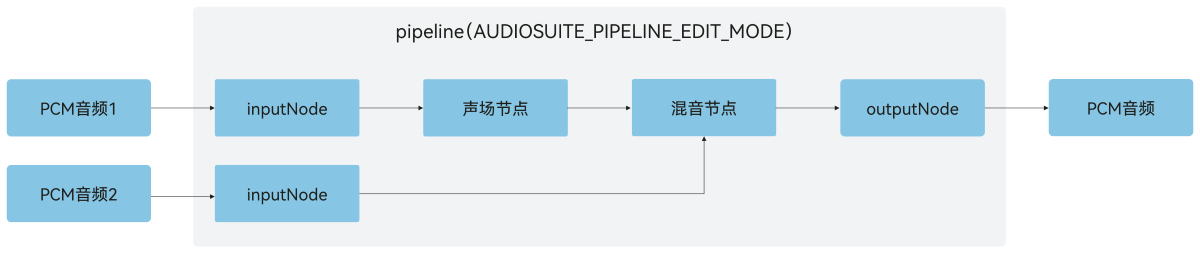
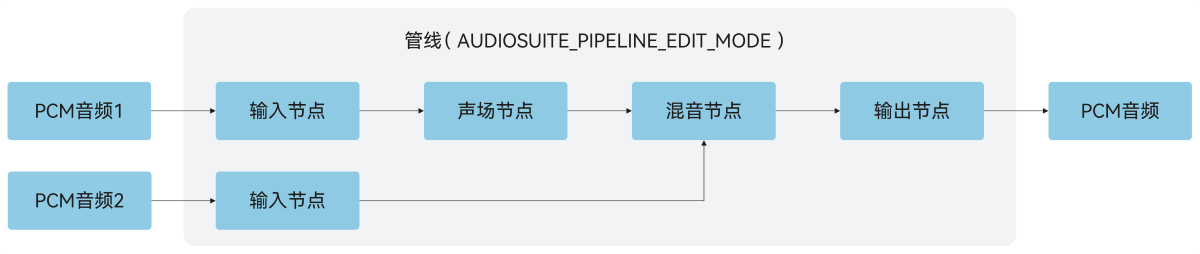
upate audiosuite API 22 docs

diff --git a/zh-cn/application-dev/media/audio/audio-suite.md b/zh-cn/application-dev/media/audio/audio-suite.md
@@ -16,23 +16,23 @@
 
 ## 引擎
 
-- [OHAudioSuite](../../reference/apis-audio-kit/capi-ohaudiosuite.md)中的引擎是一个统一管理音频管线、控制[离线编辑(C/C++)](audio-suite-manual-rendering.md)和[实时渲染(C/C++)](audio-suite-real-time-rendering.md)的对象，开发者可以根据自身的需求搭建音频处理链。调用方式如上图所示，由应用发起，先调用[OHAudioSuite](../../reference/apis-audio-kit/capi-ohaudiosuite.md)的接口依次创建引擎、管线、节点，再把创建的节点在管线内连接起来，用于传输PCM（Pulse Code Modulation）音频数据，使对应的效果节点实现音效处理能力。当管线停止时，开发者可以有限制地（具体规则请参考[管线的组成和编排](#管线的组成和编排)）连接、断开和移除节点，通过调节节点编排实现复杂的音效处理。
+[OHAudioSuite](../../reference/apis-audio-kit/capi-ohaudiosuite.md)中的引擎是一个统一管理音频管线、控制[离线编辑(C/C++)](audio-suite-manual-rendering.md)和[实时渲染(C/C++)](audio-suite-real-time-rendering.md)的对象，开发者可以根据自身的需求搭建音频处理链。调用方式如上图所示，由应用发起，先调用[OHAudioSuite](../../reference/apis-audio-kit/capi-ohaudiosuite.md)的接口依次创建引擎、管线、节点，再把创建的节点在管线内连接起来，用于传输PCM（Pulse Code Modulation）音频数据，使对应的效果节点实现音效处理能力。当管线停止时，开发者可以有限制地（具体规则请参考[管线的组成和编排](#管线的组成和编排)）连接、断开和移除节点，通过调节节点编排实现复杂的音效处理。
 
-- 引擎最多支持创建10条管线，其中实时渲染管线最多创建1条。
+引擎最多支持创建10条管线，其中实时渲染管线最多创建1条。
 
 ## 节点
 
 ### 节点的介绍
 
-- 节点是音频渲染的最小单元，根据节点功能提供对应的音效处理能力，节点本身无法单独调用，必须依附管线和引擎才能使用。
+节点是音频渲染的最小单元，根据节点功能提供对应的音效处理能力，节点本身无法单独调用，必须依附管线和引擎才能使用。
 
-- [OHAudioSuite](../../reference/apis-audio-kit/capi-ohaudiosuite.md)支持三种节点类型，分别是输入节点、输出节点、效果节点。
+[OHAudioSuite](../../reference/apis-audio-kit/capi-ohaudiosuite.md)支持三种节点类型，分别是输入节点、输出节点、效果节点。
 
-  |节点类型   | 说明    |
-  |----------|----------|
-  | INPUT_NODE  | 输入节点，支持开发者输入各种格式的PCM音频数据。  |
-  | EFFECT_NODE | 效果节点，添加音频效果，支持单输入单输出和多输入单输出。 |
-  | OUTPUT_NODE | 输出节点，支持设置输出的PCM音频格式。  |
+|节点类型   | 说明    |
+|----------|----------|
+| INPUT_NODE  | 输入节点，支持开发者输入各种格式的PCM音频数据。  |
+| EFFECT_NODE | 效果节点，添加音频效果，支持单输入单输出和多输入单输出。 |
+| OUTPUT_NODE | 输出节点，支持设置输出的PCM音频格式。  |
 
   节点完整类型详见[OH_AudioNode_Type](../../reference/apis-audio-kit/capi-native-audio-suite-base-h.md#oh_audionode_type)。
 
@@ -51,43 +51,9 @@
 
 ## 管线
 
-### 管线的作用
+管线是一个统一管理音频节点连接、配置的对象，支持两种工作模式，分别是[离线编辑(C/C++)](audio-suite-manual-rendering.md)和[实时渲染(C/C++)](audio-suite-real-time-rendering.md)。
 
-- 管线是[OHAudioSuite](../../reference/apis-audio-kit/capi-ohaudiosuite.md)中支持应用渲染PCM音频数据的音效链路。管线支持节点之间的灵活组网，给开发者提供更丰富、更灵活的音频编创体验。
-
-- 管线使用的场景如下：
-
-
-  创建一个输入节点、一个效果节点（如均衡器节点[EFFECT_NODE_TYPE_EQUALIZER](../../reference/apis-audio-kit/capi-native-audio-suite-base-h.md#oh_audionode_type)）和一个输出节点，按节点连接顺序（输入节点 -> 效果节点 -> 输出节点）连接组成管线，实现均衡器功能（具体代码用例参考[基础离线编辑](audio-suite-manual-rendering.md#基础离线编辑)）。同时，管线也支持多输入场景（具体代码用例参考[混音与级联](audio-suite-manual-rendering.md#混音与级联)），每条管线输入的PCM数据经过各自的效果节点，在进行混音处理后进行输出。
-
-### 管线的组成和编排
-
-管线由节点编排组成。每一个管线中，输入节点[INPUT_NODE_TYPE_DEFAULT](../../reference/apis-audio-kit/capi-native-audio-suite-base-h.md#oh_audionode_type)不超过5个，输出节点[OUTPUT_NODE_TYPE_DEFAULT](../../reference/apis-audio-kit/capi-native-audio-suite-base-h.md#oh_audionode_type)不超过1个，混音节点[EFFECT_NODE_TYPE_AUDIO_MIXER](../../reference/apis-audio-kit/capi-native-audio-suite-base-h.md#oh_audionode_type)不超过3个，音源分离节点[EFFECT_MULTII_OUTPUT_NODE_TYPE_AUDIO_SEPARATION](../../reference/apis-audio-kit/capi-native-audio-suite-base-h.md#oh_audionode_type)不超过1个，其余效果类节点不超过5个。
-
-- 管线创建的节点数量超过该类型的限制后，再创建该类型节点会失败。
-
-- 每条管线至少要有1个输入节点，有且只有1个输出节点。
-
-- 创建节点前需要调用[OH_AudioSuiteEngine_IsNodeTypeSupported()](../../reference/apis-audio-kit/capi-native-audio-suite-engine-h.md#oh_audiosuiteengine_isnodetypesupported)检查节点类型是否受支持，避免创建节点失败。
-  
-- 输入节点和输出节点支持设置节点格式，其余节点不支持设置格式。输入的格式是音频源的音频格式，输出的格式是开发者期望输出的音频格式。
-
-管线中节点的连接规则如下表所示。
-
-|前置节点类型\后置节点类型   | INPUT_NODE_TYPE_DEFAULT（输入节点） | EFFECT_NODE（效果类节点的统称） | OUTPUT_NODE_TYPE_DEFAULT（输出节点） |
-|----------|----------|----------|----------|
-| INPUT_NODE_TYPE_DEFAULT（输入节点）  | N  | Y  |    Y   |
-| EFFECT_NODE（效果类节点的统称） | N  | Y  |  Y  |
-| OUTPUT_NODE_TYPE_DEFAULT（输出节点） | N  | N  |  N  |
-
-- 音源分离效果节点[EFFECT_MULTII_OUTPUT_NODE_TYPE_AUDIO_SEPARATION](../../reference/apis-audio-kit/capi-native-audio-suite-base-h.md#oh_audionode_type)后面只能连接输出节点，其余效果类节点则没有这个限制。
-
-- 混音效果节点[EFFECT_NODE_TYPE_AUDIO_MIXER](../../reference/apis-audio-kit/capi-native-audio-suite-base-h.md#oh_audionode_type)支持多路输入连接，其余类型节点则不支持。
-
-- 节点的连接是单向的，不支持后序节点反向连接到前序节点。输入节点是每条管线的首节点，输出节点是每条管线的尾节点。
-
-
-### 管线的状态变化与工作模式
+管线的数据处理采用反向驱动机制。由[OH_AudioSuiteEngine_RenderFrame()](../../reference/apis-audio-kit/capi-native-audio-suite-engine-h.md#oh_audiosuiteengine_renderframe)或者[OH_AudioSuiteEngine_MultiRenderFrame()](../../reference/apis-audio-kit/capi-native-audio-suite-engine-h.md#oh_audiosuiteengine_multirenderframe)发起，输出节点逐级向连接的上游节点请求数据，最终由输入节点的[OH_InputNode_RequestDataCallback()](../../reference/apis-audio-kit/capi-native-audio-suite-engine-h.md#oh_inputnode_requestdatacallback)回调函数向开发者请求需要处理的音频数据。
 
 **图2**：管线运行状态图
 
@@ -100,7 +66,30 @@
 | stopped  | 初始状态，或者工作状态经过[OH_AudioSuiteEngine_StopPipeline()](../../reference/apis-audio-kit/capi-native-audio-suite-engine-h.md#oh_audiosuiteengine_stoppipeline)命令进入该状态。<br>切换到stopped状态下，各节点将释放缓存。  |
 | running  | 工作状态，或者初始状态执行[OH_AudioSuiteEngine_StartPipeline()](../../reference/apis-audio-kit/capi-native-audio-suite-engine-h.md#oh_audiosuiteengine_startpipeline)命令进入该状态。<br>该函数会对管线进行完整性检查，包含是否有有效连接、节点是否连接错误等。 |
 
-管线是一个统一管理音频节点连接、配置的对象，支持两种工作模式，分别是[离线编辑(C/C++)](audio-suite-manual-rendering.md)和[实时渲染(C/C++)](audio-suite-real-time-rendering.md)。
+### 管线的作用
 
-管线的数据处理采用反向驱动机制。由[OH_AudioSuiteEngine_RenderFrame()](../../reference/apis-audio-kit/capi-native-audio-suite-engine-h.md#oh_audiosuiteengine_renderframe)或者[OH_AudioSuiteEngine_MultiRenderFrame()](../../reference/apis-audio-kit/capi-native-audio-suite-engine-h.md#oh_audiosuiteengine_multirenderframe)发起，输出节点逐级向连接的上游节点请求数据，最终由输入节点的[OH_InputNode_RequestDataCallback()](../../reference/apis-audio-kit/capi-native-audio-suite-engine-h.md#oh_inputnode_requestdatacallback)回调函数向开发者请求需要处理的音频数据。
+- 管线是[OHAudioSuite](../../reference/apis-audio-kit/capi-ohaudiosuite.md)中支持应用渲染PCM音频数据的音效链路。管线支持节点之间的灵活组网，给开发者提供更丰富、更灵活的音频编创体验。
 
+- 管线使用的场景如下：
+
+  创建一个输入节点、一个效果节点（如均衡器节点[EFFECT_NODE_TYPE_EQUALIZER](../../reference/apis-audio-kit/capi-native-audio-suite-base-h.md#oh_audionode_type)）和一个输出节点，按节点连接顺序（输入节点 -> 效果节点 -> 输出节点）连接组成管线，实现均衡器功能（具体代码用例参考[基础离线编辑](audio-suite-manual-rendering.md#基础离线编辑)）。同时，管线也支持多输入场景（具体代码用例参考[混音与级联](audio-suite-manual-rendering.md#混音与级联)），每条管线输入的PCM数据经过各自的效果节点，在进行混音处理后进行输出。
+
+### 管线的组成和编排
+
+管线由节点编排组成。每一个管线中，输入节点[INPUT_NODE_TYPE_DEFAULT](../../reference/apis-audio-kit/capi-native-audio-suite-base-h.md#oh_audionode_type)不超过5个，输出节点[OUTPUT_NODE_TYPE_DEFAULT](../../reference/apis-audio-kit/capi-native-audio-suite-base-h.md#oh_audionode_type)不超过1个，效果类节点不超过5个，其中混音节点[EFFECT_NODE_TYPE_AUDIO_MIXER](../../reference/apis-audio-kit/capi-native-audio-suite-base-h.md#oh_audionode_type)不超过3个，音源分离节点[EFFECT_MULTII_OUTPUT_NODE_TYPE_AUDIO_SEPARATION](../../reference/apis-audio-kit/capi-native-audio-suite-base-h.md#oh_audionode_type)不超过1个。
+
+管线创建节点规则如下所示。
+
+- 管线创建的节点数量超过该类型的限制后，再创建该类型节点会失败。
+- 每条管线至少要有1个输入节点，有且只有1个输出节点。
+- 创建节点前需要调用[OH_AudioSuiteEngine_IsNodeTypeSupported()](../../reference/apis-audio-kit/capi-native-audio-suite-engine-h.md#oh_audiosuiteengine_isnodetypesupported)检查节点类型是否受支持，避免创建节点失败。
+- 输入节点和输出节点支持设置节点格式，其余节点不支持设置格式。输入的格式是音频源的音频格式，输出的格式是开发者期望输出的音频格式。
+
+管线中节点的编排规则如下所示。
+
+- 管线连接顺序为：输入节点 -> 效果节点 -> 输出节点。
+- 音源分离效果节点[EFFECT_MULTII_OUTPUT_NODE_TYPE_AUDIO_SEPARATION](../../reference/apis-audio-kit/capi-native-audio-suite-base-h.md#oh_audionode_type)后面只能连接输出节点，其余效果类节点则没有这个限制。
+
+- 混音效果节点[EFFECT_NODE_TYPE_AUDIO_MIXER](../../reference/apis-audio-kit/capi-native-audio-suite-base-h.md#oh_audionode_type)支持多路输入连接，其余类型节点则不支持。
+
+- 节点的连接是单向的，不支持后序节点反向连接到前序节点。输入节点是每条管线的首节点，输出节点是每条管线的尾节点。

diff --git a/zh-cn/application-dev/media/audio/audio-suite-real-time-rendering.md b/zh-cn/application-dev/media/audio/audio-suite-real-time-rendering.md
@@ -151,7 +151,7 @@ target_link_libraries(sample PUBLIC libohaudio.so libohaudiosuite.so)
 
 2. 创建[OH_AudioRendererStruct](../../reference/apis-audio-kit/capi-ohaudio-oh-audiorendererstruct.md)实例，并在其`AudioRendererOnWriteData()`回调函数中调用[OHAudioSuite](../../reference/apis-audio-kit/capi-ohaudiosuite.md)管线的[OH_AudioSuiteEngine_RenderFrame()](../../reference/apis-audio-kit/capi-native-audio-suite-engine-h.md#oh_audiosuiteengine_renderframe)接口来处理数据。
 
-   音频播放请参考：[使用OHAudio开发音频播放功能(C/C++)](./using-ohaudio-for-playback.md)。
+   请参考音频播放完成音频播放功能开发：[使用OHAudio开发音频播放功能(C/C++)](./using-ohaudio-for-playback.md)。
 
 
 3. 在播放器的回调函数中，将处理后的数据复制到OH_AudioRenderer实例的缓冲区中，实现音频播放过程中实时渲染。
@@ -206,7 +206,6 @@ target_link_libraries(sample PUBLIC libohaudio.so libohaudiosuite.so)
    OH_AudioSuiteEngine_StopPipeline(audioSuitePipeline);
    ```
 
-
 4. 资源销毁。
 
    ```cpp
@@ -227,9 +226,9 @@ target_link_libraries(sample PUBLIC libohaudio.so libohaudiosuite.so)
 
 ## 注意事项
 
-音频实时渲染过程中，不支持重新创建新的效果节点，只支持修改效果节点的参数。
+- 音频实时渲染过程中，不支持重新创建新的效果节点，只支持修改效果节点的参数。
 
-音频编创错误码具体报错信息请参考：[OH_AudioSuite_Result](../../reference/apis-audio-kit/capi-native-audio-suite-base-h.md#oh_audiosuite_result)。
+- 音频编创错误码具体报错信息请参考：[OH_AudioSuite_Result](../../reference/apis-audio-kit/capi-native-audio-suite-base-h.md#oh_audiosuite_result)。
 
 
 <!--RP1-->

diff --git a/zh-cn/application-dev/media/audio/audio-suite-manual-rendering.md b/zh-cn/application-dev/media/audio/audio-suite-manual-rendering.md
@@ -47,7 +47,6 @@ target_link_libraries(sample PUBLIC libohaudiosuite.so)
 
 ![single_in_single_out](figures/audiosuite-eq-edit.png)
 
-示例代码如下：
 
 1. 创建引擎和管线。
    
@@ -382,7 +381,7 @@ target_link_libraries(sample PUBLIC libohaudiosuite.so)
 
 ### 混音与级联
 
-输入多路PCM音频数据，使用混音节点（mixNode）进行混音，输出混音后的PCM音频数据。
+输入多路PCM音频数据，使用混音节点进行混音，输出混音后的PCM音频数据。
 
 **图3**：级联编辑示意图
 
@@ -404,9 +403,7 @@ target_link_libraries(sample PUBLIC libohaudiosuite.so)
 
 2. 创建输入、输出、效果类节点并连接。
 
-   由于混音功能有多个输入节点，需单独设置回调函数`InputNodeWriteDataCallBack`中的`userData`参数。`InputNodeWriteDataCallBack`函数类型为[OH_InputNode_RequestDataCallback()](../../reference/apis-audio-kit/capi-native-audio-suite-engine-h.md#oh_inputnode_requestdatacallback)。
-
-   在回调函数`InputNodeWriteDataCallBack`中，使用`userData`参数来区分多个输入节点，从而实现多个PCM音频数据的输入。
+   由于混音功能有多个输入节点，需单独设置回调函数`InputNodeWriteDataCallBack`中的`userData`参数来区分多个输入节点，从而实现多个PCM音频数据的输入。`InputNodeWriteDataCallBack`函数类型为[OH_InputNode_RequestDataCallback()](../../reference/apis-audio-kit/capi-native-audio-suite-engine-h.md#oh_inputnode_requestdatacallback)。
 
    ```cpp
    struct AudioDataInfo {
